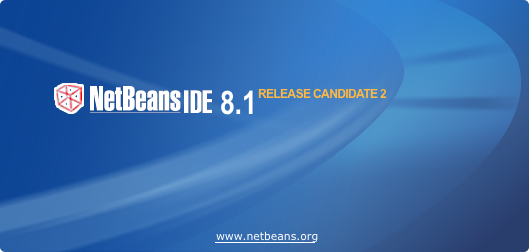
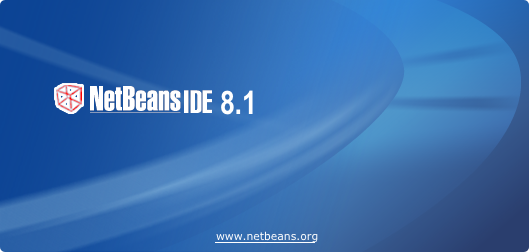
8.1 final branding

Changed region(s): [[0.4839, 0.3333, 0.7259, 0.3889]]

diff --git a/installer/infra/build/web/js/build_info.js b/installer/infra/build/web/js/build_info.js
@@ -65,7 +65,7 @@ build_info.USE_HTML_ZIP_LISTING = 1;
 
 build_info.add_download_tabs = function() {
 	add_download_tab("8.0.2", "http://netbeans.org/downloads/");
-	add_download_tab("8.1 RC2");
+	add_download_tab("8.1");
 	add_download_tab(DEVELOPMENT_TITLE,DEVELOPMENT_BUILDS_LINK);
 	add_download_tab(ARCHIVE_TITLE,ARCHIVE_BUILDS_LINK);
 }
